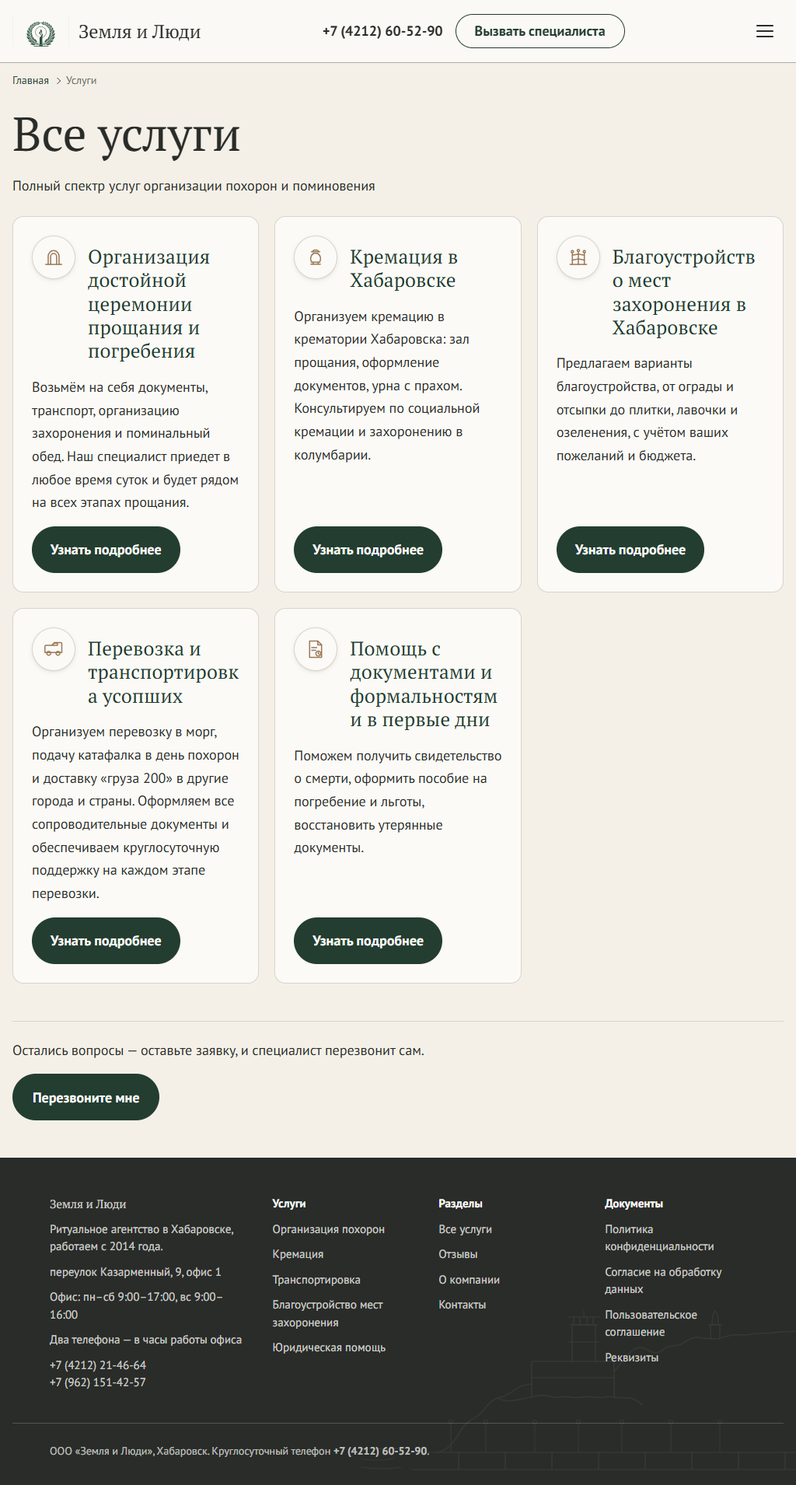
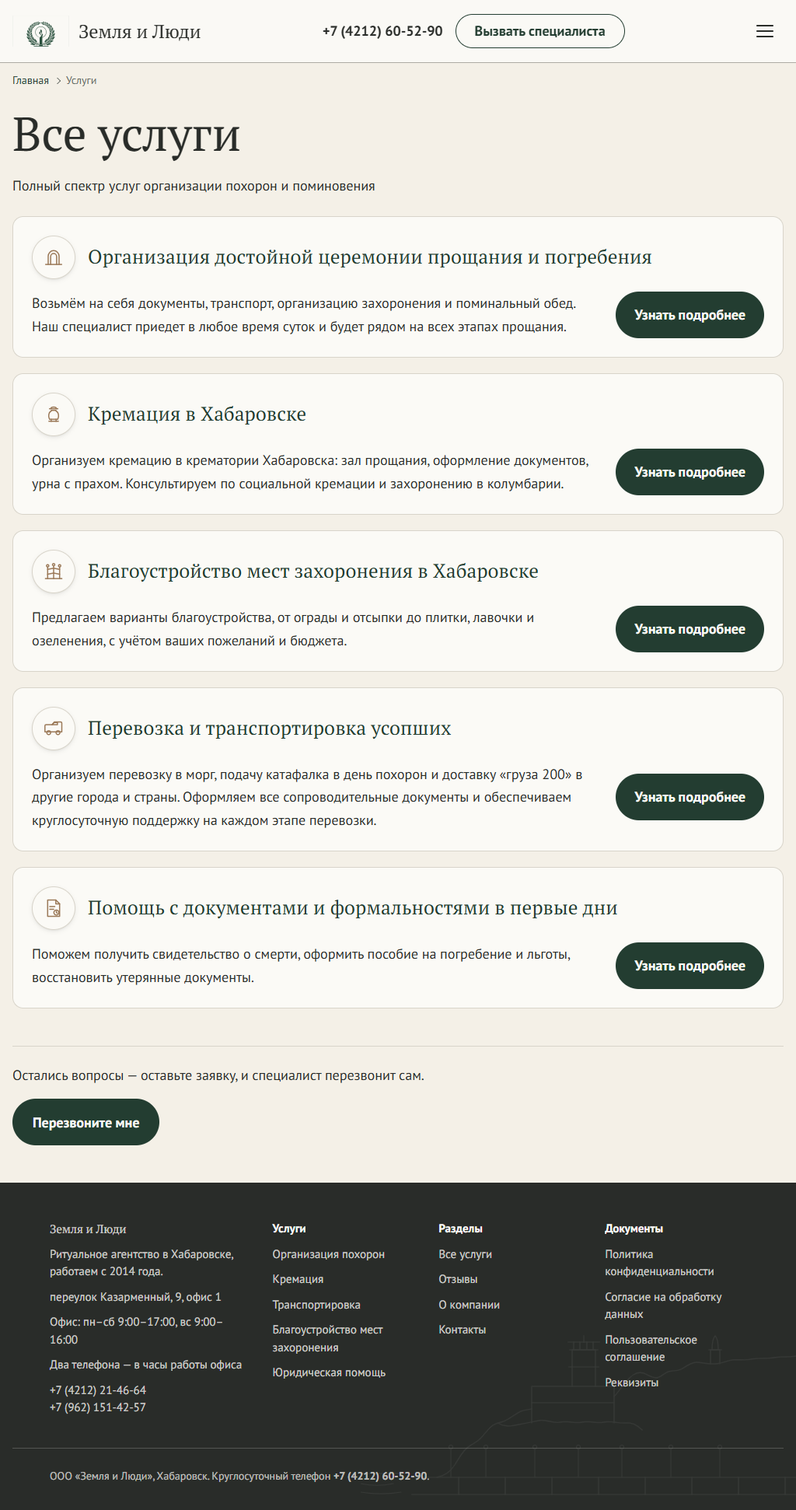
Каталог услуг: одна услуга в строку, зона нажатия названию возвращена

diff --git a/wp-content/themes/razil/assets/css/main.css b/wp-content/themes/razil/assets/css/main.css
@@ -587,17 +587,20 @@ h1.has-heading-l-font-size {
 	}
 }
 
-/* Каталог услуг: сетка карточек (§23.1).
+/* Каталог услуг: одна услуга в строку, во всю ширину контейнера.
 
-   До фазы 6 здесь лежала строчная раскладка — содержимое слева,
-   кнопка справа. Она ушла вместе с разметкой: карточка каталога
-   теперь та же, что на главной, и отличается только тем, что
-   фотографии у неё нет, а вместо неё иконка услуги.
+   23 сентября сетка 3 → 2 → 1 заменена обратно на строки. Причина
+   не вкусовая: в трёх колонках карточке достаётся 371 px, а название
+   «Организация достойной церемонии прощания и погребения» при кегле
+   heading-s занимает в такой ширине пять строк. Карточка вытягивается
+   вверх, соседние карточки тянутся за ней, и каталог из пяти услуг
+   читается как стена текста. В строке во всю ширину то же название
+   укладывается в одну строку — замер в отчёте.
 
-   Три колонки на широком экране, две на среднем, одна на узком.
-   Пять услуг ложатся как 3+2: последняя строка неполная, и это
-   нормально — растягивать её значило бы делать карточки разной
-   ширины. */
+   Класс менять не стал: `.rz-services-grid` встречается только
+   в archive-services.html (и в несобранном src/blocks/services-grid),
+   переименование тронуло бы разметку ради слова. Это по-прежнему
+   сетка, просто в одну колонку. */
 .rz-services-grid {
 	display: grid;
 	grid-template-columns: minmax(0, 1fr);
@@ -607,18 +610,6 @@ h1.has-heading-l-font-size {
 
 .rz-services-grid > * {
 	margin-block: 0;
-}
-
-@media (min-width: 48rem) {
-	.rz-services-grid {
-		grid-template-columns: repeat(2, minmax(0, 1fr));
-	}
-}
-
-@media (min-width: 62rem) {
-	.rz-services-grid {
-		grid-template-columns: repeat(3, minmax(0, 1fr));
-	}
 }
 
 /* Карточка растягивается на всю высоту строки сетки.
@@ -678,6 +669,57 @@ h1.has-heading-l-font-size {
 .rz-service-card__more {
 	margin-top: auto;
 	align-self: flex-start;
+}
+
+/* СТРОЧНАЯ КАРТОЧКА КАТАЛОГА.
+
+   Привязка к странице архива, а не к классу, — решение прошлого
+   прогона, и оно здесь главное. Цитата из отчёта от 19 сентября:
+   «правило строчной карточки архива .wp-block-group.rz-service-card
+   поймало и новую карточку главной, и текст сжался в колонку
+   по букве. Исправлено привязкой правила к странице архива».
+   Классы у карточек общие по замыслу §24, значит различать их
+   должно место, а не класс.
+
+   Раскладка не та, что была до редизайна. Прежняя ставила в строку
+   всё тело карточки — название с описанием слева, кнопку справа,
+   и при длинном названии слева получалась та же узкая колонка.
+   Здесь строка разделена на два ряда: шапка с иконкой и названием
+   идёт во всю ширину, а описание и кнопка встают рядом под ней.
+   Название получает все 1112 px и укладывается в одну строку.
+
+   Сетка, а не флексы: два ряда с разными правилами выравнивания
+   во флексах потребовали бы третьей обёртки в разметке, а разметку
+   каталога трогать незачем. */
+body.post-type-archive-services .rz-service-card__body {
+	display: grid;
+	grid-template-columns: minmax(0, 1fr) auto;
+	column-gap: 2rem;
+	row-gap: 1rem;
+	align-items: center;
+}
+
+body.post-type-archive-services .rz-service-card__head {
+	grid-column: 1 / -1;
+}
+
+/* Авто-поле у кнопки снимается: оно прижимало её к низу колонки,
+   а в строке кнопка стоит по центру своего ряда. */
+body.post-type-archive-services .rz-service-card__more {
+	margin-top: 0;
+	align-self: center;
+}
+
+/* До 760 px строка складывается в столбик. Порог тот же, что
+   у остальных раскладок этого прогона. */
+@media (max-width: 47.5rem) {
+	body.post-type-archive-services .rz-service-card__body {
+		grid-template-columns: minmax(0, 1fr);
+	}
+
+	body.post-type-archive-services .rz-service-card__more {
+		justify-self: start;
+	}
 }
 
 /* === КНОПКА ЗВОНКА ===
@@ -949,7 +991,8 @@ input[type="reset"],
 .rz-reviews__link a,
 .rz-footer__col a,
 .rz-footer__copyright a,
-.rz-breadcrumbs__list a {
+.rz-breadcrumbs__list a,
+.rz-service-card__head .wp-block-post-title a {
 	--rz-tap: 2.75rem;
 	--rz-tap-side: 0px;
 	position: relative;
@@ -982,6 +1025,11 @@ input[type="reset"],
    остальных: у них зоны не было вовсе, замер давал 23 и 31 px
    при норме 44. Это главный номер агентства — по нему звонят,
    и промах по нему дороже промаха по ссылке в подвале. */
+/* Название услуги в каталоге попало в этот набор 23 сентября:
+   в сетке из трёх колонок оно занимало от двух до пяти строк и было
+   выше 44 px само собой, а в строчной карточке стало однострочным —
+   замер дал 33 px на 1366 и 29 px на 768. Зона возвращает цель
+   к 44 px, не трогая кегль. */
 .rz-first-aid a[href^="tel:"]::after,
 .entry-content a[href^="tel:"]:not(.wp-element-button)::after,
 .entry-content a[href^="mailto:"]:not(.wp-element-button)::after,
@@ -994,7 +1042,8 @@ input[type="reset"],
 .rz-reviews__link a::after,
 .rz-footer__col a::after,
 .rz-footer__copyright a::after,
-.rz-breadcrumbs__list a::after {
+.rz-breadcrumbs__list a::after,
+.rz-service-card__head .wp-block-post-title a::after {
 	content: "";
 	position: absolute;
 	inset-block: min(0px, calc((var(--rz-tap) - 100%) / -2));

diff --git a/_reports/fixes-uslugi-2026-09-23.md b/_reports/fixes-uslugi-2026-09-23.md
@@ -16,7 +16,7 @@
 |--------|-----------|---------|
 | 1. Скругления у фотографий | завершена | ПРОШЁЛ |
 | 2. Раздел «Что делать, если…» на главной | завершена | ПРОШЁЛ |
-| 3. Каталог услуг: строчные карточки | не начата | — |
+| 3. Каталог услуг: строчные карточки | завершена | ПРОШЁЛ |
 | 4. Долг: подписи заглушек за рамкой | не начата | — |
 | 5. Общие компоненты страниц услуг | не начата | — |
 | 6.1 Благоустройство (запись 14) | не начата | — |
@@ -513,3 +513,230 @@ main.css:408   .wp-block-image img { border-radius: var(--rz-radius-card) }
 задокументированное.
 
 **Вердикт задачи 2: ПРОШЁЛ.**
+
+---
+
+## Задача 3 — Каталог услуг: строчные карточки
+
+### Разведка: история строчной карточки
+
+Строчный вариант в проекте действительно был. Хронология по `git log`:
+
+| Коммит | Дата | Что произошло |
+|--------|------|---------------|
+| `54bb5df` | 17.08.2026 | введена строчная карточка `.wp-block-group.rz-service-card` |
+| `c014278` | 19.09.2026 | правило перенесено в новую структуру CSS, значения те же |
+| `dde184c` | 19.09.2026 | появился колоночный компонент `.rz-service-card` (0,1,0), строчное правило (0,2,0) его перебивало |
+| `6468f25` | 19.09.2026 | **ошибка и починка**: селектор переписан с `.wp-block-group.rz-service-card` на `body.post-type-archive-services .rz-service-card` |
+| `993f43b` | 19.09.2026 | строчное правило удалено целиком, введена `.rz-services-grid` |
+
+Последнее состояние строчного CSS (`993f43b~1`, строки 561–626)
+поднято целиком и прочитано. Оно ставило в строку ВСЁ тело
+карточки: название с описанием слева, кнопку справа, выравнивание
+по центру, до 767 px — столбик.
+
+**Взято за основу, но не скопировано.** Прежняя раскладка при
+длинном названии давала ту же беду, что и сетка: название делило
+строку с кнопкой и снова попадало в узкую колонку. Поэтому строка
+разделена на два ряда — шапка с иконкой и названием во всю ширину,
+под ней описание и кнопка рядом. Название получает 1038 px и
+укладывается в одну строку.
+
+Что изменилось в токенах с тех пор: прежний CSS брал отступы
+из `var(--wp--preset--spacing--40/--50)` и радиус
+`var(--rz-radius-card)` числом `8px`; сейчас поля карточки задаёт
+`.rz-service-card--flat > .rz-service-card__body { padding: 1.5rem }`,
+радиус — тот же токен со значением 14 px. Ничего из старых значений
+не возвращалось.
+
+### Замер симптома
+
+На 1366 в сетке из трёх колонок карточке достаётся 371 px.
+Названия при кегле `heading-s` (27 px) занимают:
+
+```
+Организация достойной церемонии прощания и погребения — 5 строк
+Благоустройство мест захоронения в Хабаровске        — 3 строки
+Перевозка и транспортировка усопших                  — 3 строки
+Помощь с документами и формальностями в первые дни   — 4 строки
+Кремация в Хабаровске                                — 2 строки
+```
+
+### Что сделано
+
+**1. `.rz-services-grid` — одна колонка.** Медиазапросы на две
+и три колонки удалены. Класс оставлен: он встречается только
+в `archive-services.html` и в несобранном `src/blocks/services-grid`,
+переименование тронуло бы разметку ради слова.
+
+**2. Строчная раскладка тела карточки — сеткой, только на архиве.**
+
+```css
+body.post-type-archive-services .rz-service-card__body {
+	display: grid;
+	grid-template-columns: minmax(0, 1fr) auto;
+	column-gap: 2rem;
+	row-gap: 1rem;
+	align-items: center;
+}
+
+body.post-type-archive-services .rz-service-card__head {
+	grid-column: 1 / -1;
+}
+```
+
+Сетка, а не флексы: два ряда с разными правилами выравнивания
+во флексах потребовали бы третьей обёртки в разметке, а разметку
+каталога трогать незачем.
+
+**3. Авто-поле у кнопки снято** на архиве: оно прижимало кнопку
+к низу колонки, в строке она стоит по центру своего ряда.
+
+**4. До 760 px — столбик**, кнопка прижата влево.
+
+**5. Разметка не тронута вовсе.** `archive-services.html`
+не изменился ни на байт.
+
+### Затронутые решения прошлых прогонов (И17)
+
+**Решение редизайна от 19 сентября о сетке** — «Каталог услуг.
+Полосы во всю ширину заменены сеткой карточек 3 → 2 → 1… каталог
+помогает выбрать направление, поэтому услуги стоят рядом
+и сравниваются взглядом, а не тянутся полосами в одну колонку»
+(§23.1). **Отменено заданием.** Довод «сравниваются взглядом»
+верен для коротких названий; у этого каталога названия длинные,
+и в 371 px главное — само название услуги — рассыпается на пять
+строк. Сравнивать взглядом пять столбцов рваного текста труднее,
+чем пять строк, в каждой из которых название читается целиком.
+
+**Решение от 19 сентября о привязке к странице архива** —
+«правило строчной карточки архива `.wp-block-group.rz-service-card`
+поймало и новую карточку главной, и текст сжался в колонку
+по букве. Исправлено привязкой правила к странице архива».
+**Соблюдено дословно:** все новые правила начинаются
+с `body.post-type-archive-services`. Проверено замером на главной
+(К4).
+
+**Решение «цены в каталоге нет»** — не тронуто, цена не добавлялась.
+
+### Замеры и критерии приёмки
+
+**К1. Одна услуга в строку, во всю ширину контейнера.**
+
+| Ширина | Ширина карточки | Карточек в строке | Строк у названия |
+|--------|-----------------|-------------------|------------------|
+| 375 | 343 | 1 | 2–5 |
+| 768 | 736 | 1 | 1–2 |
+| 1024 | 992 | 1 | 1 |
+| 1366 | 1160 | 1 | 1 |
+| 1920 | 1160 | 1 | 1 |
+
+Пять карточек — пять разных верхних кромок на всех ширинах:
+в строке ровно одна услуга.
+
+**К2. Описание и кнопка рядом, а не друг под другом.** На 1366:
+описание 128..1015, кнопка 1047..1238, вертикальные диапазоны
+пересекаются — то есть они на одной линии. Так на всех ширинах
+от 768 и выше.
+
+**К3. Иконка и название в одной строке.** Шапка `__head` —
+`grid-column: 1 / -1`, внутри неё иконка и название флексом;
+название занимает 1038 px из 1112 доступных.
+
+**К4. Карточки на ГЛАВНОЙ не пострадали.** Замер после правки:
+
+```
+  375px  3 карточки, 1 в ряд, ширина 343, тело display: flex, фото есть
+  768px  3 карточки, 1 в ряд, ширина 736, тело display: flex, фото есть
+ 1024px  3 карточки, 3 в ряд, ширина 315, тело display: flex, фото есть
+ 1366px  3 карточки, 3 в ряд, ширина 371, тело display: flex, фото есть
+ 1920px  3 карточки, 3 в ряд, ширина 371, тело display: flex, фото есть
+```
+
+Тело карточки главной осталось `display: flex` (строчная раскладка
+делает его `grid`) — значит правило архива до главной не достаёт.
+Цены в ряду стоят на одной линии: нижняя кромка 2054 у всех трёх.
+
+**К5. Найденная и исправленная регрессия — зоны нажатия.**
+Обход `audit.mjs` после первой правки дал **4 замечания из 95**:
+
+```
+svc-index  768 | зон без цели: 3
+svc-index 1024 | зон без цели: 5
+svc-index 1366 | зон без цели: 5
+svc-index 1920 | зон без цели: 5
+```
+
+Причина: названия услуг — ссылки (`wp:post-title {"isLink":true}`).
+В сетке они занимали от двух до пяти строк и были выше 44 px сами
+собой. Строчная карточка сделала их однострочными — 33 px на 1366,
+29 px на 768, — и цель стала меньше нормы И11.
+
+Лечение — тем же механизмом, что у остальных мелких целей темы:
+селектор `.rz-service-card__head .wp-block-post-title a` добавлен
+в набор `--rz-tap: 2.75rem` и в парный набор `::after`. Кегль
+не трогался.
+
+Пробой по четырём кромкам после лечения, 30 целей (названия
+и кнопки) на трёх ширинах:
+
+```
+ 1366px  «Организация достойной » h=33 зона=44  верх:да низ:да лево:да право:да
+ 1366px  «Кремация в Хабаровске»  h=33 зона=44  верх:да низ:да лево:да право:да
+ 1366px  «Узнать подробнее…»      h=60 зона=60  верх:да низ:да лево:да право:да
+ --- целей 30, с замечаниями 0
+```
+
+**К6. Просмотрено глазами, 1366.** Пять строк во всю ширину.
+В каждой: круглая иконка услуги, рядом название в одну строку
+крупным шрифтом с засечками; под ними описание в одну-две строки
+слева и тёмно-зелёная кнопка «Узнать подробнее» справа, по центру
+ряда. Кнопки у всех пяти строк стоят на одной вертикали. Карточки
+разделены зазором 1.25rem, фон карточки светлее фона страницы.
+На 375 та же карточка в столбик: иконка с названием, описание,
+кнопка слева.
+
+### Протокол проверки
+
+**П1 `git diff --stat`** — один файл:
+
+```
+ wp-content/themes/razil/assets/css/main.css | 103 ++++++++++++++-----------
+```
+
+**П2 круговорот блоков:** `--- ИТОГО: проверено 36, упало 0`.
+
+**П3 побайтовые проверки:** `main.css` — CRLF, без BOM, прошёл.
+
+**П4 и П5 текст, телефоны, суммы:** `--- ПРОШЁЛ`. Предложений
+726 → 726.
+
+**П6 замер переноса** — К1, пять ширин.
+
+**П7 проба перекрытия** — К5, пробой по четырём кромкам, 30 целей,
+0 промахов.
+
+**П8 выход содержимого за рамку:** карточки каталога — рамок
+с жёсткой высотой в них нет, содержимое задаёт высоту само.
+
+**П9 скриншоты:** `_reports/shots/after2/uslugi-*.png`,
+просмотрены 1366 и 375 (К6).
+
+**П10 регрессия по 200 %:** 19 страниц на 375 и 768 — `0 из 38`;
+горизонтальной прокрутки нет ни на одной из пяти ширин.
+
+**П11 регрессия по главной:** К4 — карточки главной не изменились
+ни на одной ширине. Полный обход 19 страниц на пяти ширинах:
+`0 из 95`.
+
+**П12 консоль:** ошибок нет.
+
+**П13 добавленные `!important`:** ни одного.
+
+**П14 `overflow` на `.rz-callout--warn`:** 0 правил.
+
+**П15 клавиатура:** Tab по каталогу — 14 шагов, у каждого видимая
+обводка 2px solid, порядок «название → кнопка» по каждой услуге,
+замечаний 0.
+
+**Вердикт задачи 3: ПРОШЁЛ.**
